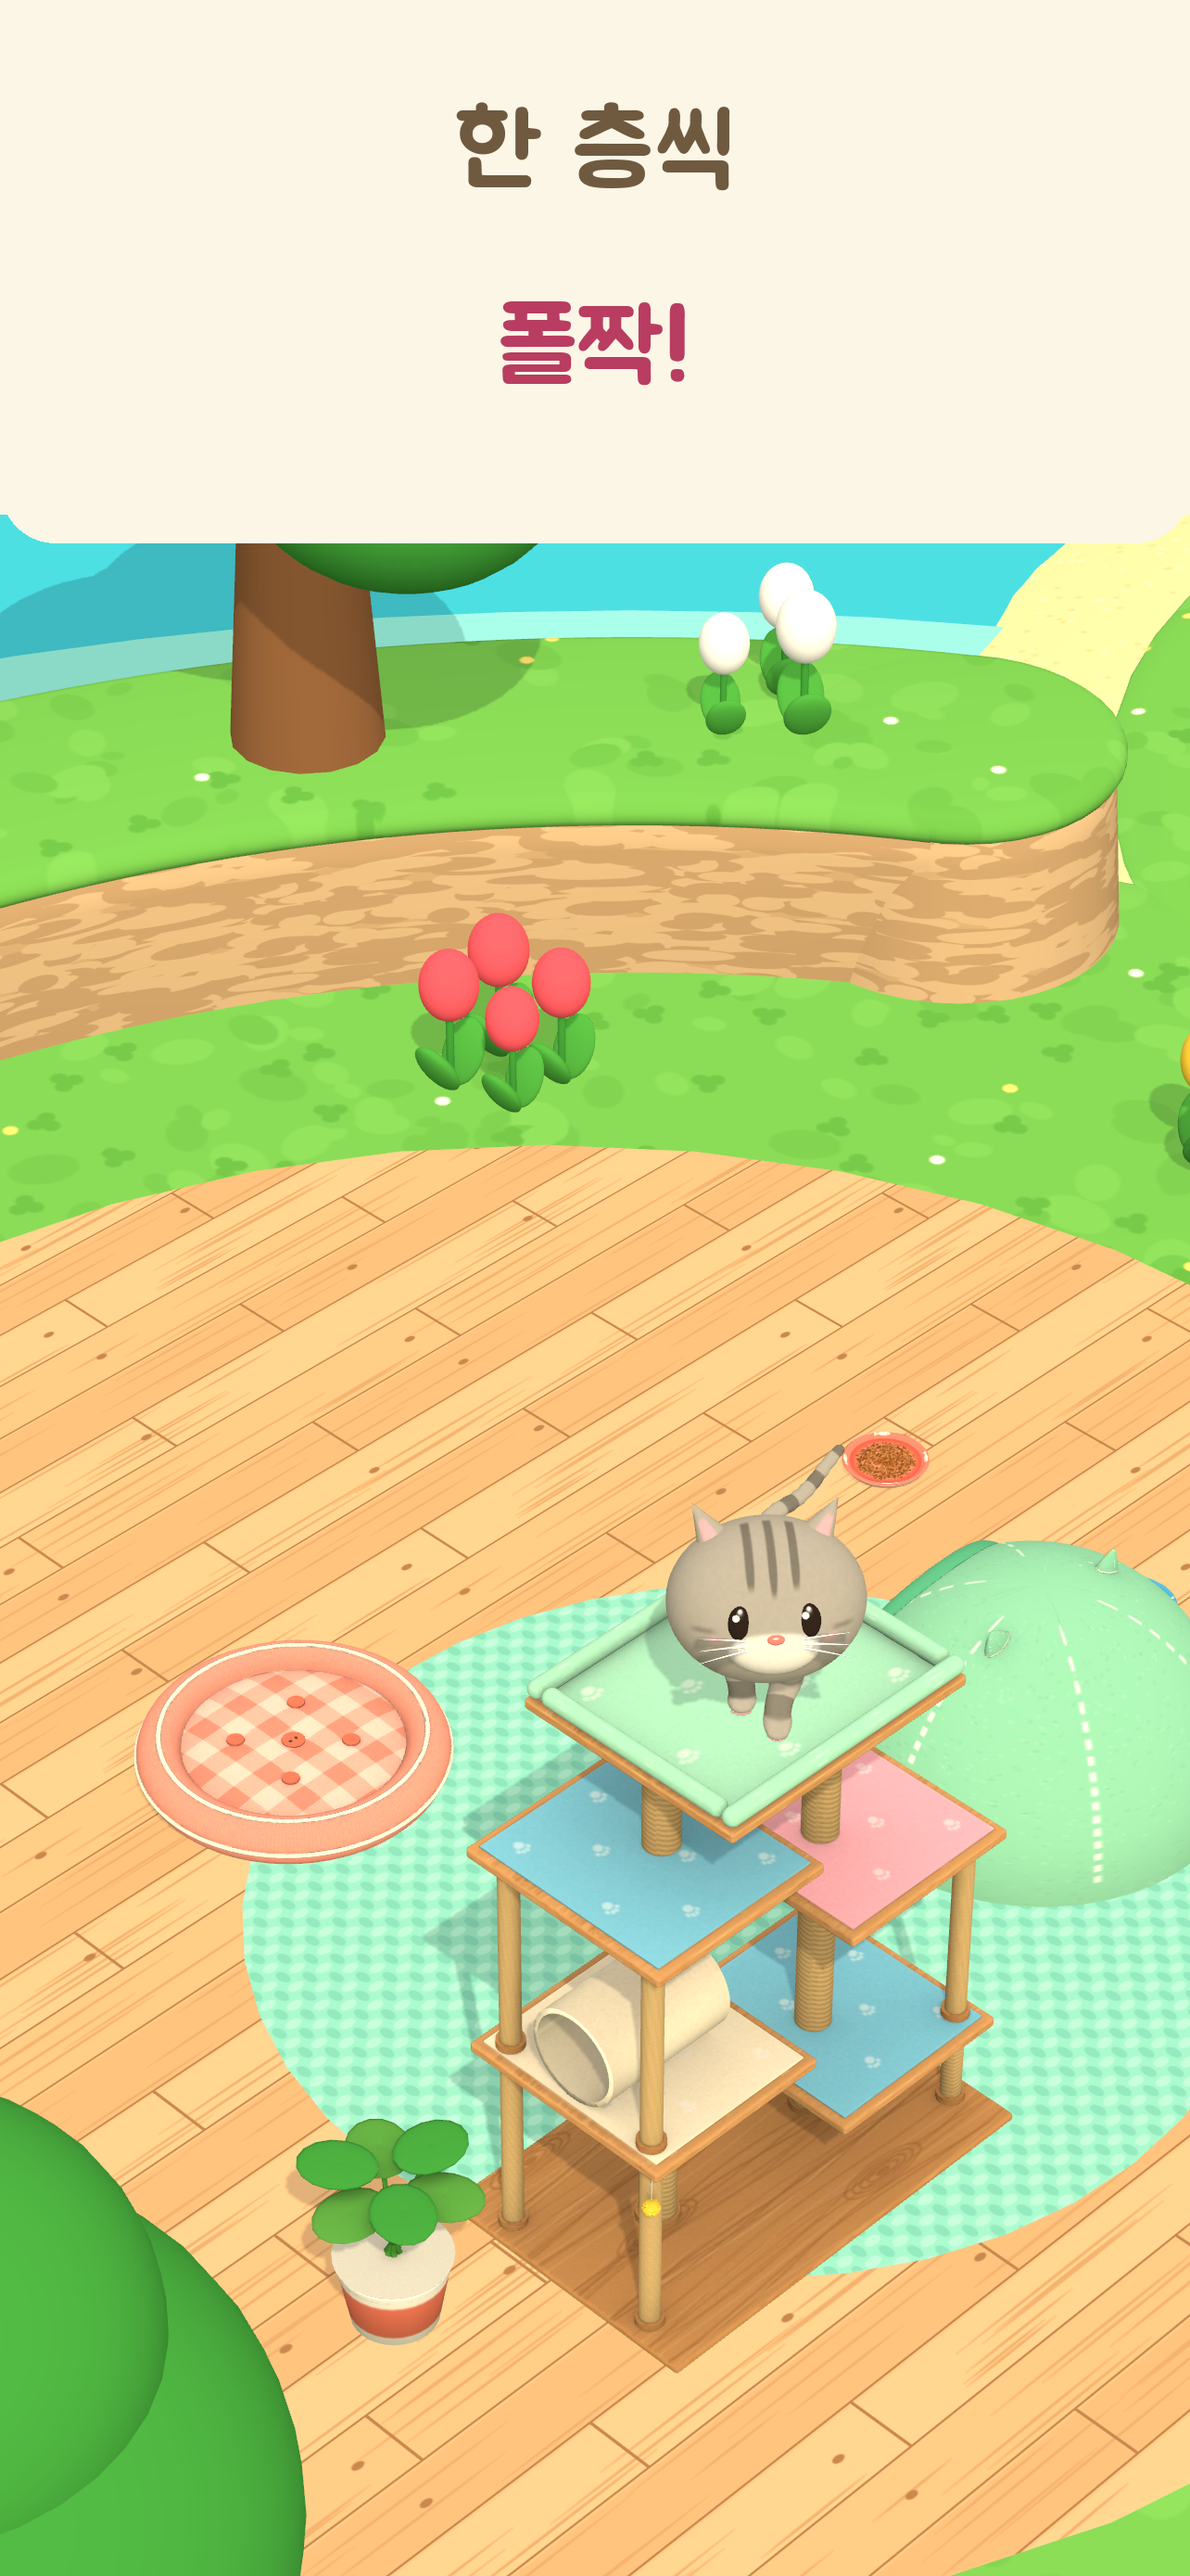
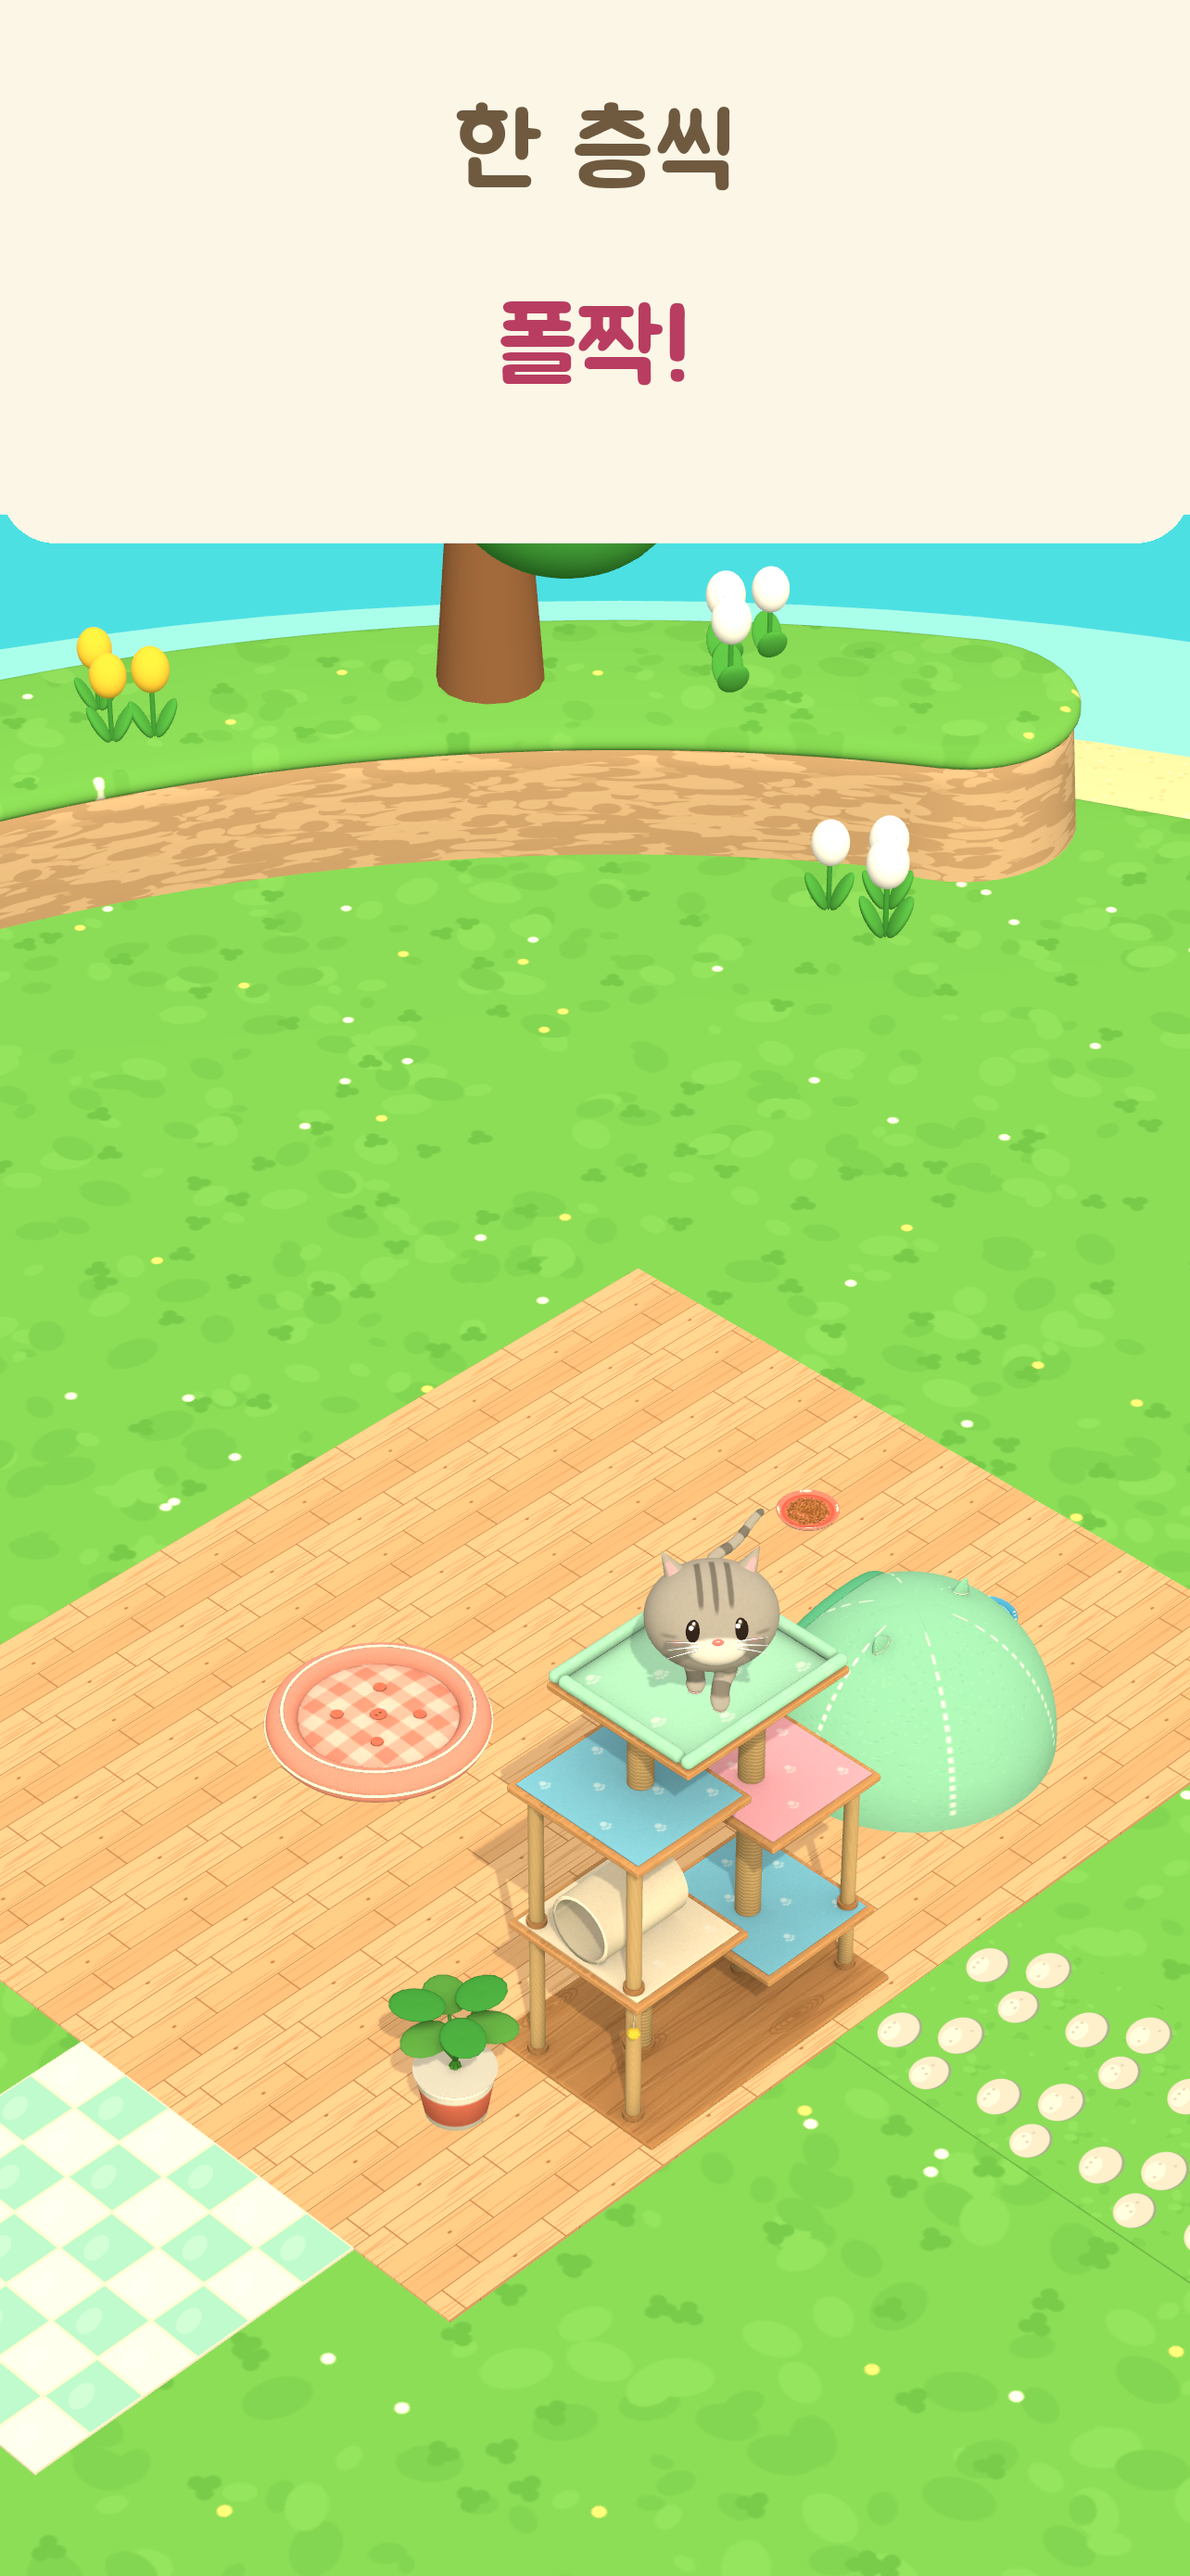
고양이섬: 앱스토어 스크린샷 다시 (넓어진 섬 + 데크 타일)

diff --git a/cat-island/unity/Assets/CatIsland/Tests/PlayMode/StoreShots.cs b/cat-island/unity/Assets/CatIsland/Tests/PlayMode/StoreShots.cs
@@ -62,6 +62,9 @@ namespace CatIsland.Tests
             // 2. 꾸미기: 방석·숨숨집·화분을 놓으면 바로 써 본다
             foreach (var (id, x, z) in new[] { ("cushion", 7, 9), ("hideout", 10, 6), ("plant_pot", 5, 6), ("mouse_toy", 8, 11) })
                 if (g.Buy(id)) g.Place(id, CatIsland.Game.Zone.Indoor, x, z, 2);
+            // (데크 타일: 가운데 원목 마루, 앞으로 징검돌 - 섬마다 다른 바닥)
+            void Lay(string tile, int x0, int z0, int x1, int z1) { for (int z = z0; z <= z1; z++) for (int x = x0; x <= x1; x++) { if (g.Tiles(tile) <= 0) g.BuyTiles(tile); g.LayTile(tile, CatIsland.Game.Zone.Indoor, x, z); } }
+            g.AddCoins(5000); Lay("deck_honey", 4, 5, 13, 12); Lay("stone_path", 8, 1, 9, 4); Lay("tile_mint", 1, 6, 3, 8);
             game.WorldLink.Refresh();
             Time.timeScale = 3f;
             for (float t = 0; t < 25f && Cat.State != CatState.UseItem; t += Time.deltaTime) yield return null;

diff --git a/cat-island/unity/tools/store_shots.py b/cat-island/unity/tools/store_shots.py
@@ -9,7 +9,7 @@ FONT = HERE / "Assets" / "CatIsland" / "Resources" / "Fonts" / "Jua.ttf"
 CREAM, COCOA, STRAW = (0xFB, 0xF6, 0xE6), (0x6F, 0x5A, 0x40), (0xFF, 0x9A, 0xB3)
 CAPTIONS = {
     "1_petting": ("살살 쓰다듬으면", "골골송"),
-    "2_decorate": ("놓으면 바로", "써 봐요"),
+    "2_decorate": ("바닥도 꾸미고", "놓으면 바로 써 봐요"),
     "3_tower": ("한 층씩", "폴짝!"),
     "4_breeds": ("33가지 품종 +", "우리 집 고양이"),
     "5_guest": ("오늘의 손님,", "산책 선물"),

diff --git a/cat-island/docs/DEV_LOG.md b/cat-island/docs/DEV_LOG.md
@@ -119,3 +119,4 @@
   - 데크 타일 8종(원목·화이트 우드·월넛·바둑판·벚꽃 마루, 민트 체크·테라코타 타일, 징검돌 판, 무늬는 코드로 그림 - 이웃 타일과 이음매 없이 이어짐). 상점 '바닥' 탭에서 9장 묶음, 처음에 원목 마루 9장 선물. 꾸미기 → 데크 타일 '깔기' → 바닥 깔기 모드(깔기·걷기·화면 옮기기, 격자선, 손가락으로 쓸면 지나간 칸을 이어서 깖, 다른 무늬 위에 깔면 바꾸고 원래 타일은 가방으로). 무늬마다 메시 하나(타일 덩어리 바깥에만 두께), 발소리 재질도 타일을 따름.
   - 찾아 고친 것: 도구를 바꿔도 손가락 자취가 이어져 걷기가 여러 칸을 걷던 것, 안내 카드 글자 넣기가 주석에 묻혀 빈 카드(테스트 추가), 놓을 수 있는 칸이 예전 둥근 마루 원으로 제한되던 것, 점프 중인 고양이를 피하다 크게 밀리던 것(비키는 양 상한).
   - 확인: 시뮬레이터 화면(docs/images/checks/island_wide_far.png, deck_tiles_close.png, tile_mode.png), 테스트 DeckTiles_BuyLaySwapLift, SaveV1_IndoorPlacements_ShiftToWiderGrid, DeckTiles_PaintLine_Lift_AndFinish, HintCard_ShowsItsText. EditMode 45, PlayMode 38.
+- 2026-10-10 앱스토어 스크린샷 다시 찍음(넓어진 섬, 데크 타일: 원목 마루·징검돌·민트 체크), 2번 문구 '바닥도 꾸미고 / 놓으면 바로 써 봐요'.
